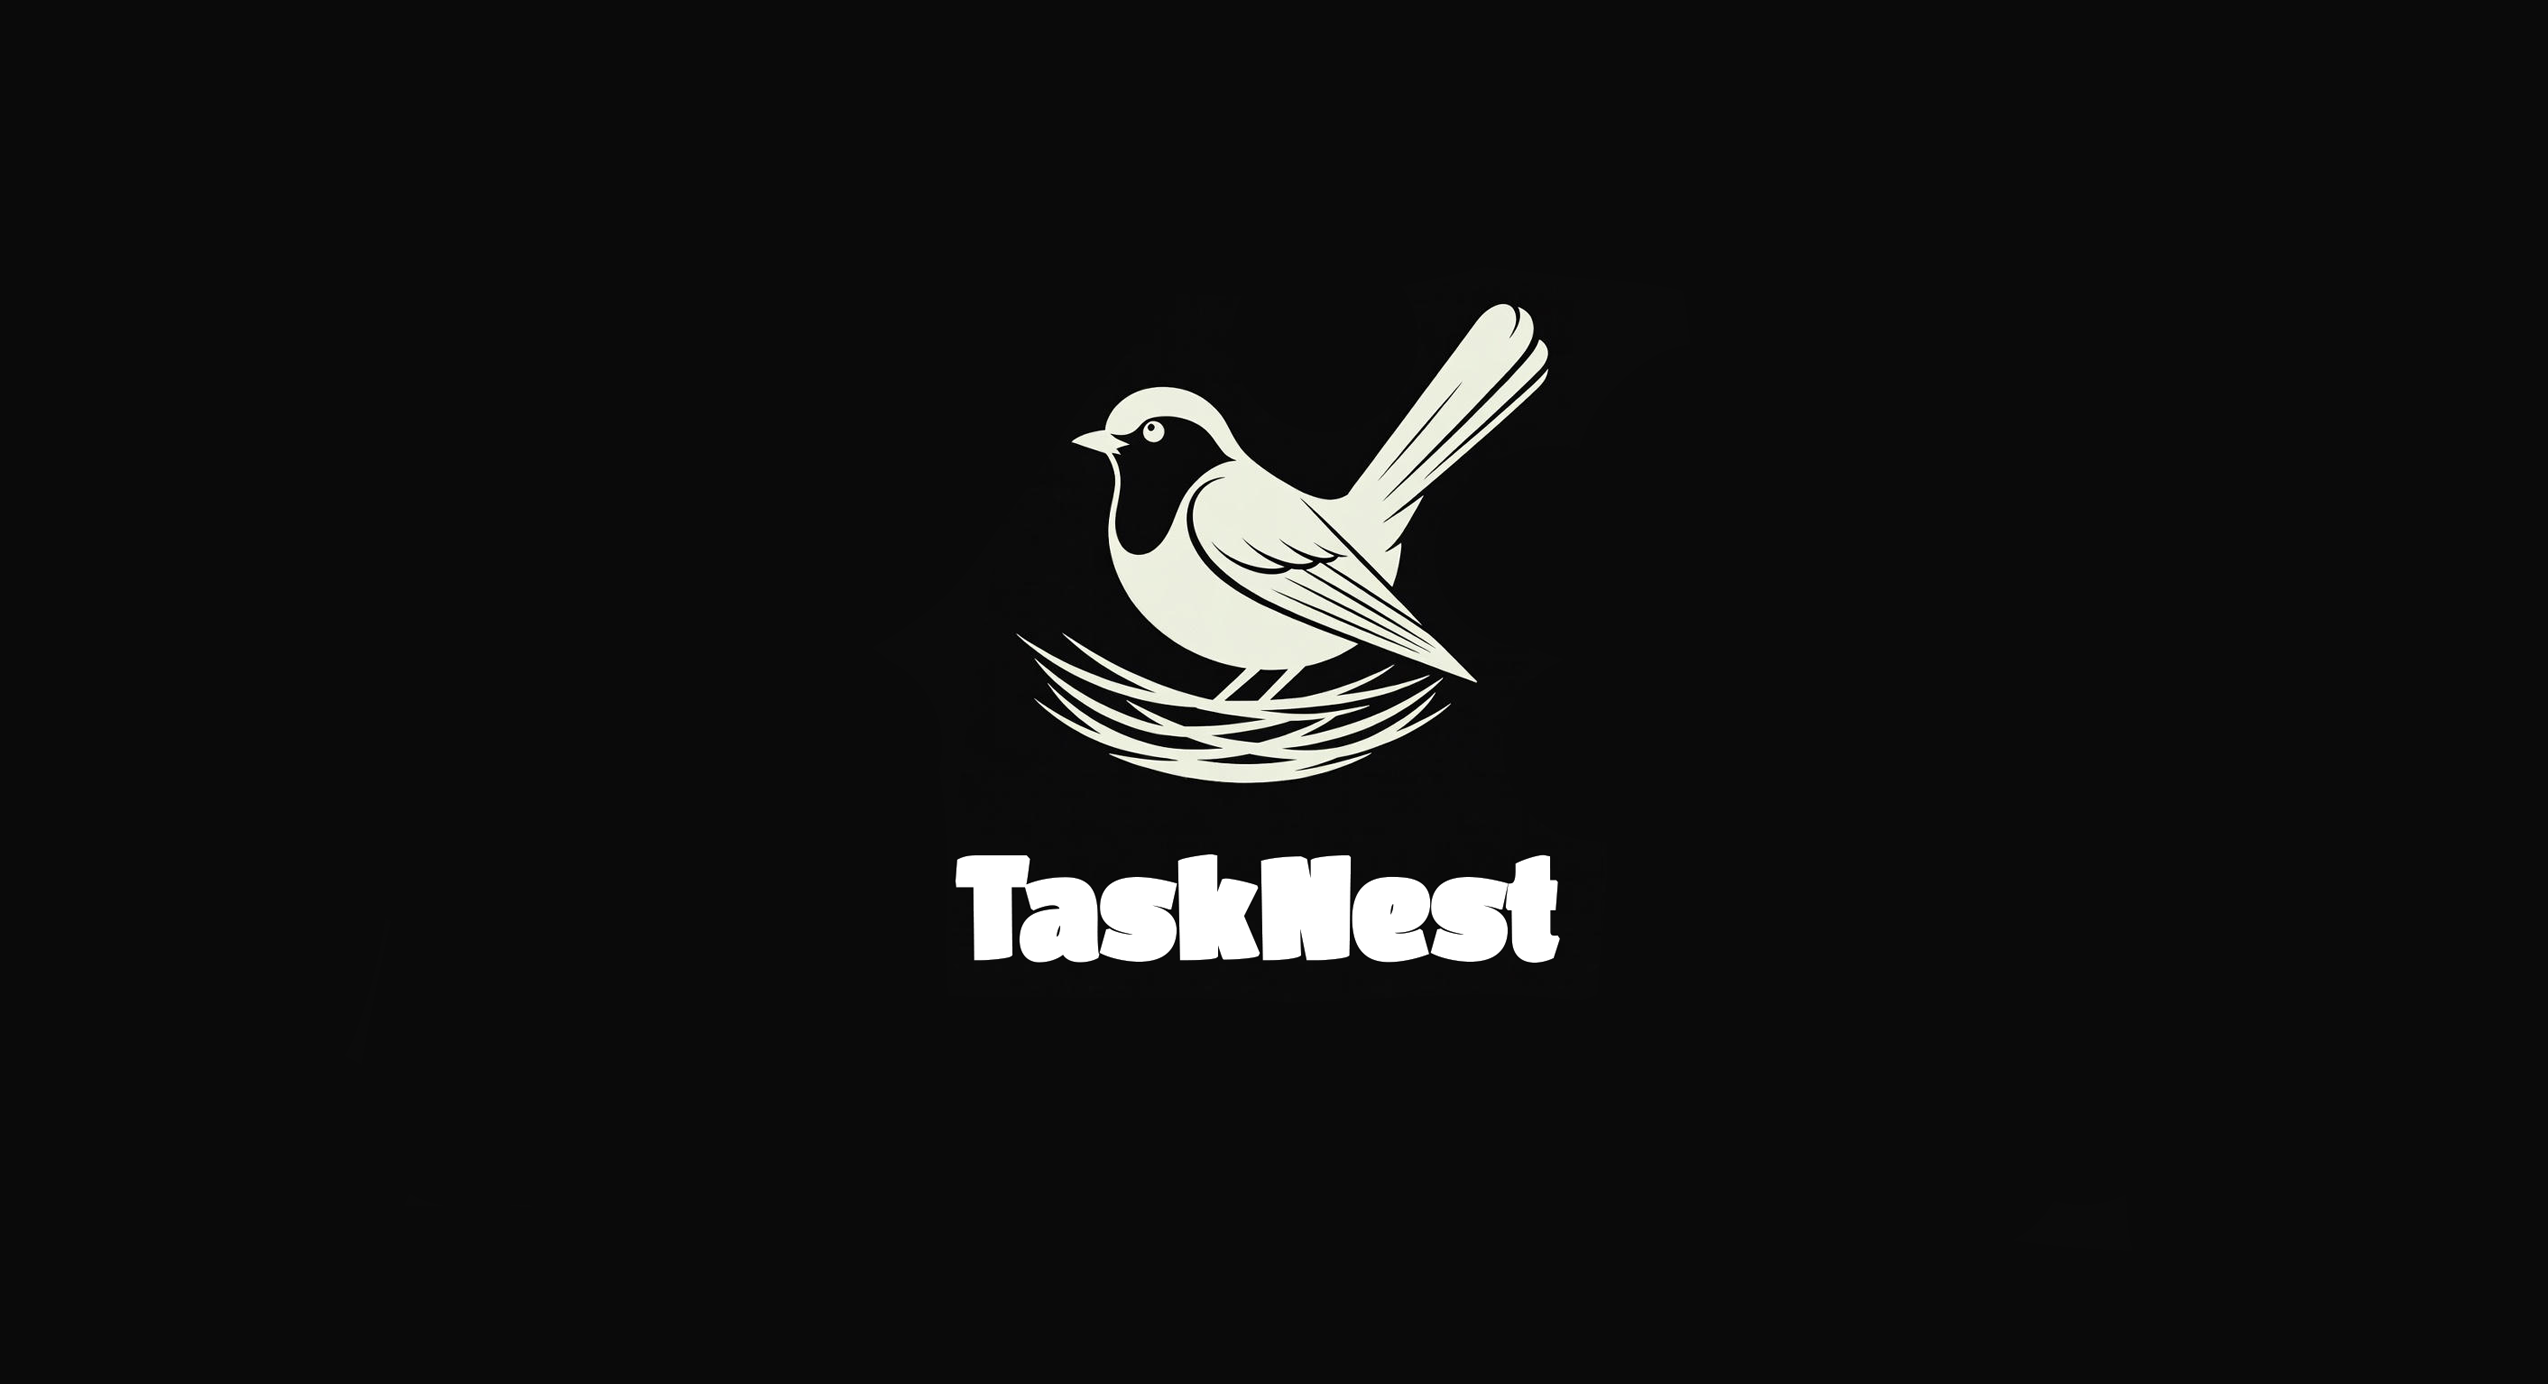
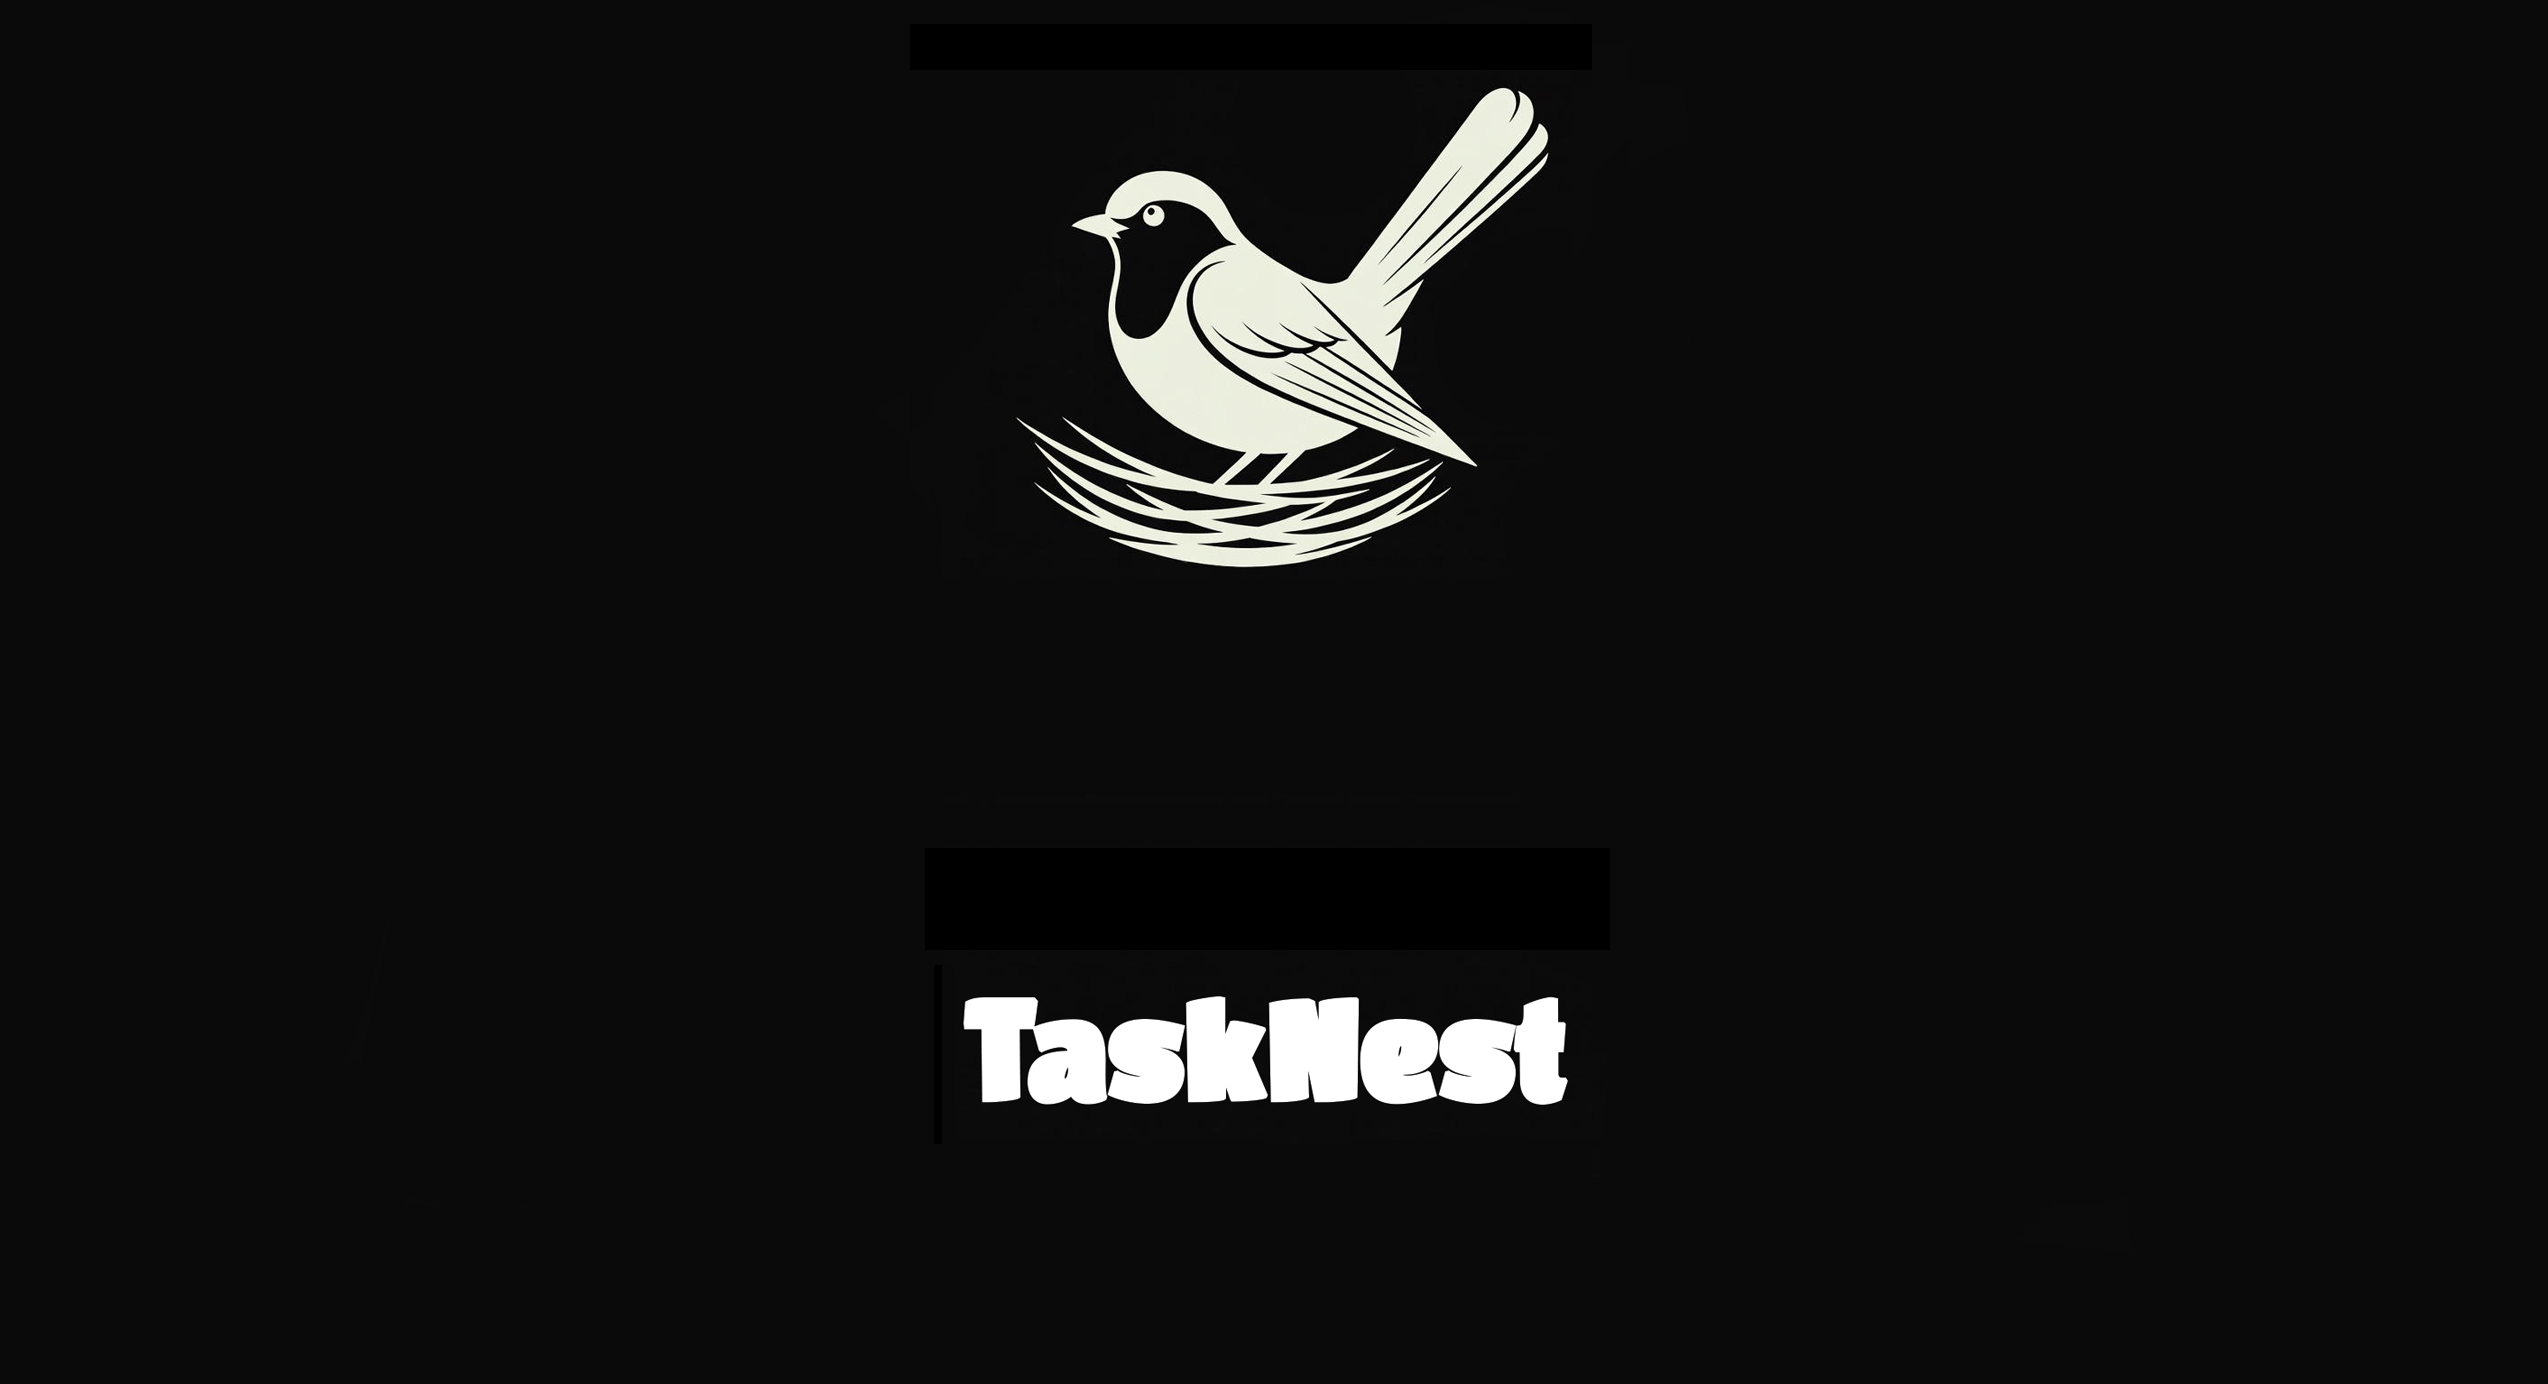
minor changes

Changed region(s): [[0.4031, 0.0621, 0.6201, 0.5903], [0.3721, 0.6214, 0.6201, 0.8078]]

diff --git a/src/pages/FirstvisitGate.tsx b/src/pages/FirstvisitGate.tsx
@@ -11,7 +11,7 @@ export default function FirstVisitGate() {
 
   const handleGuest = () => {
     localStorage.setItem(STORAGE_KEY, "guest");
-    navigate("/home"); // main entrance
+    navigate("/home"); 
   };
 
   const handleLogin = () => {
@@ -38,7 +38,7 @@ export default function FirstVisitGate() {
           initial={{ y: 20, opacity: 0 }}
           animate={{ y: 0, opacity: 1 }}
           transition={{ duration: 0.3 }}
-          className="relative z-10 flex min-h-screen w-screen flex-col items-center justify-center px-6 text-white"
+          className="relative z-10 flex min-h-screen w-screen pt-25 flex-col items-center justify-center px-6 text-white"
         >
           <h1 className="mb-2 text-3xl font-semibold">TaskNest</h1>
           <p className="mb-10 max-w-sm text-center text-sm text-white/80">

diff --git a/src/pages/boardTasks.tsx b/src/pages/boardTasks.tsx
@@ -12,7 +12,7 @@ const Board = () => {
 
   if (!board)
     return (
-      <div className="flex items-center justify-center h-screen text-gray-500 text-xl font-semibold">
+      <div className="flex items-center justify-center h-screen text-[#E5F0FF] text-xl font-semibold">
         Board not found
       </div>
     );
@@ -54,7 +54,7 @@ return board.tasks?.filter((t) => t.status === "done") || [];
 
   return (
     <div className=" min-h-screen w-full md:p-10 flex flex-col">
-      <h1 className="text-3xl md:text-4xl font-bold text-gray-800 mb-12 ">Board Name : {board.title}</h1>
+      <h1 className="text-3xl md:text-4xl font-bold text-[#E5F0FF] mb-12 ">Board Name : {board.title}</h1>
 
       <div className="grid grid-cols-1 md:grid-cols-3 gap-6 ">
         {/* TODO Column */}

diff --git a/src/layouts/sideBar.tsx b/src/layouts/sideBar.tsx
@@ -56,7 +56,7 @@ dispatch({type:'DELETE_BOARD', payload:{id:id}})
             <div className="flex gap-2 items-center ">
              <svg
   xmlns="http://www.w3.org/2000/svg"
-  className="w-8 h-8 text-blue-300 hover:scale-125 hover:animate-spin transition-transform duration-500"
+  className="w-10 h-10 text-blue-300  hover:scale-125 hover:animate-spin transition-transform duration-500"
   fill="none"
   viewBox="0 0 24 24"
   stroke="currentColor"
@@ -66,7 +66,7 @@ dispatch({type:'DELETE_BOARD', payload:{id:id}})
 </svg>
 
 <Link  to={'/home'}>
-             <img src={sidlogo} className="w-13 mx-15 sm:mx-10" alt="logo" />
+             <img src={sidlogo} className="w-10 mx-15 sm:mx-10" alt="logo" />
 </Link>
           <SidebarTrigger 
   className="

diff --git a/src/App.tsx b/src/App.tsx
@@ -2,12 +2,12 @@
 import {  createBrowserRouter, RouterProvider } from 'react-router-dom'
 import './App.css'
 import Home from './pages/homePage'
-import Errorpage from './pages/errorpage'
+import Errorpage from './pages/errorPage'
 import Layout from './layouts/layout'
-import Board from './pages/boread'
+import Board from './pages/boardTasks'
 import Todoprovider from './context/TodoContext'
 import TaskDiPage from './pages/taskdetailpage'
-import FirstVisitGate from './pages/starter'
+import FirstVisitGate from './pages/FirstvisitGate'
 import  {AuthProvider}  from './context/AuthContext'
 
 //////routes

diff --git a/src/index.css b/src/index.css
@@ -4,11 +4,4 @@
 body{
     background-color: #000E24;
 }
-.navbackground{
-    background-image: url('/public/bird.png'); 
-    background-size: cover;            
-    background-position: center;       
-    background-repeat: no-repeat;      
-
-}
 
